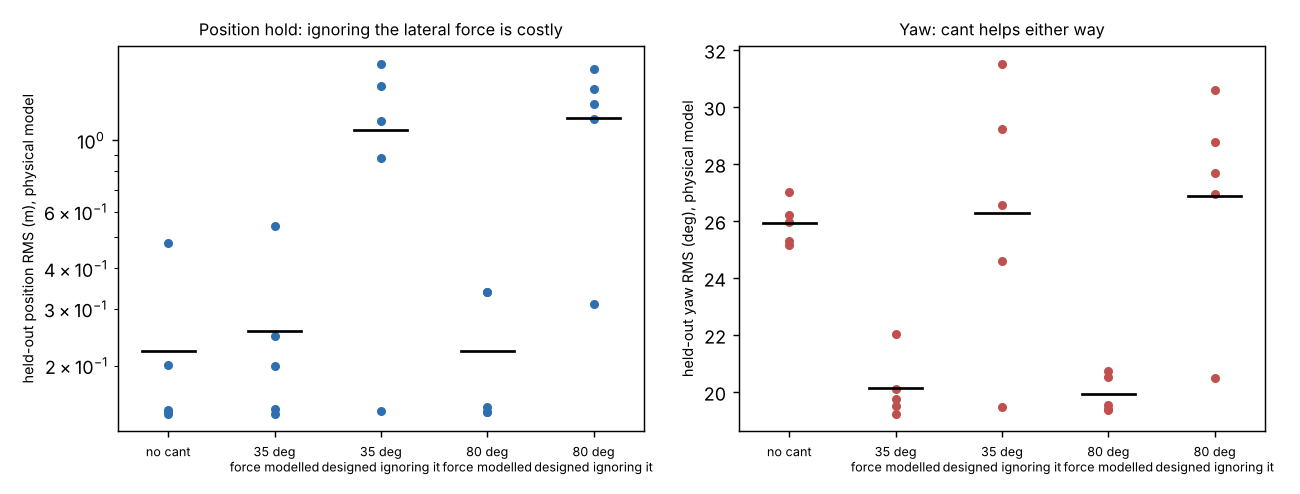
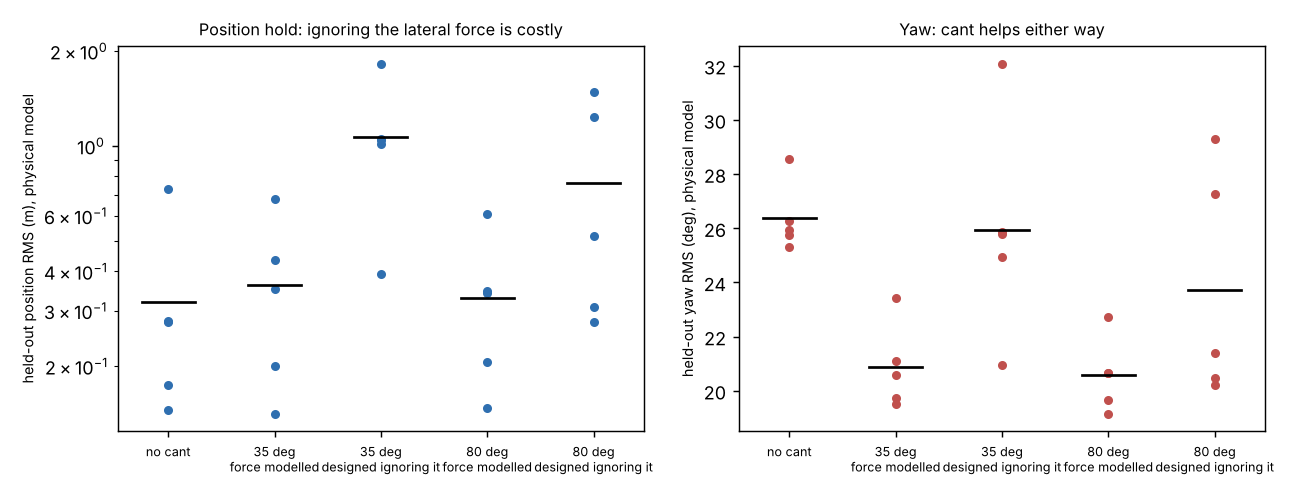
research/codesign-aero-cant-poshold: rerun after fix, README correction, post
Prompt-Version: research/0
Claude-Session: https://claude.ai/code/session_01AcxTtKjK193godXW6TNzb6

diff --git a/research/codesign-aero-cant-poshold/README.md b/research/codesign-aero-cant-poshold/README.md
@@ -6,18 +6,19 @@ Follow-up to `codesign-aero-cant-bound`, and five sibling READMEs that all defer
 
 ![Left: held-out position error of each co-designed vehicle; right: yaw error. One dot per seed.](experiments/poshold.png)
 
-**Headline (simulated; numbers from `experiments/results.txt`).** Joint CMA-ES over arm length, propeller diameter, cant, six attitude gains and three position gains (3200 evaluations, 5 seeds), scored on 64 held-out wide-plant episodes (start up to 0.5 m off the origin in a gust, hold position while yaw steps ±30°):
-- **The lateral force of a canted rotor is large enough to break a design that ignores it.** A closed form, F = τ·tan α / r (body force per unit roll/pitch torque, checked against an explicit four-rotor allocation in the tests), is added to the physical model. Designs tuned with the force switched off and then scored with it on have a mean position error of 1.08 m (cant ≤ 35°) and 1.17 m (≤ 80°), against 0.25 m and 0.22 m when the force is in the optimisation loop; worse in 5 of 5 paired seeds at both bounds.
-- **The force costs position accuracy.** Re-scoring the force-aware designs with the force switched off improves them (J 3.33 to 2.61 at the 35° bound, 3.04 to 2.83 at 80°): the force is a disturbance the controller has to work around, not free authority. The sign comes from the layout: with this arm and spin assignment a positive roll torque pushes the vehicle the way a roll tilt would not (an unhelpful, non-minimum-phase-like axis) while pitch is the helpful axis.
-- **Cant still buys yaw, not position.** Against no cant, paired by seed and scored with the physical model, yaw RMS falls 5.8° (bound 35°) and 6.0° (bound 80°), better in 5 of 5 seeds each, and position RMS is unchanged within noise (+0.03 m and 0.00 m). The combined score J = √((pos/0.1 m)² + (yaw/10°)²) improves by 0.18 and 0.48, better in 3 and 4 of 5 seeds: weak. Three seeds at the 35° bound and two at 80° land on the same ~2.42 optimum (about 0.145 m, 19.5°), against 2.90 for the best no-cant seed, but the others stop in worse local optima (one seed per cell is above 5): the optimiser budget, not the physics, limits the seed-to-seed spread.
+**Correction (2026-11-10).** `rollout_pos` multiplied a (N,1) drag coefficient into a (N,E,2) array. When the number of designs equals the number of episodes (CMA-ES training: population 16, 16 episodes) NumPy broadcast it without error over the wrong axis, so each training rollout used another design's drag coefficient. Held-out scoring (one design, 64 episodes) was unaffected, but the optimiser was misled. Fixed, a regression test added (it fails on the old code), and `run.py` and `run_restart.py` rerun. The numbers below are the rerun; the earlier ones (J 3.33/2.61 etc., restart J 3.73 to 2.99) are superseded. The qualitative findings hold; two claims change and are marked.
 
-## Restart check: how much of the seed noise was the optimiser? (2026-11-09)
-`experiments/run_restart.py` repeats the 3200-evaluation CMA-ES run with 8 seeds (not 5), then restarts it from each seed's best point (sigma 0.1, a further 3200 evaluations), physical model only, same 64 held-out episodes (`results_restart.txt`, simulated).
-- **Yaw is robust:** cant cuts yaw RMS by 5.5° (35° bound) and 5.2° (80°) before restart, 6.0° and 5.2° after, better in 8 of 8 paired seeds in every case.
-- **Position stays flat:** +0.06 m and +0.11 m before restart, -0.03 m and +0.10 m after; better in only 2 to 5 of 8 seeds.
-- **Restart helps the 35° bound most:** mean J 3.73 to 2.99 (no cant: 3.61 to 3.58), and the paired J gain over no cant goes from +0.12 (4 of 8 better) to -0.59 (6 of 8 better). Five of 8 seeds now sit at or near the 2.4 optimum. This supports the earlier weak J result, with the caveat that the gain comes as much from the no-cant arm failing to improve (its restart moves some seeds worse on held-out episodes, i.e. overfit to the 16 training episodes) as from cant improving.
-- **The 80° bound does not recover:** mean J 4.18 to 4.05, worse than no cant in 4 of 8 seeds; three seeds stay above 4. A wider cant range is harder to search in 12 dimensions at this budget; it is not shown to be a worse design.
-- Limit: 8 seeds, no significance test, restart selected on 16 training episodes. This does not address the model limits listed above.
+**Headline (simulated; numbers from `experiments/results.txt`).** Joint CMA-ES over arm length, propeller diameter, cant, six attitude gains and three position gains (3200 evaluations, 5 seeds), scored on 64 held-out wide-plant episodes (start up to 0.5 m off the origin in a gust, hold position while yaw steps ±30°):
+- **The lateral force of a canted rotor is large enough to break a design that ignores it.** F = τ·tan α / r (checked against an explicit four-rotor allocation in the tests). Designs tuned with the force switched off and scored with it on have a mean position error of 1.07 m (cant ≤ 35°) and 0.76 m (≤ 80°), against 0.36 m and 0.33 m when the force is in the loop; J worse by 6.7 and 4.1, worse in 5 of 5 and 4 of 5 seeds.
+- **The force costs position accuracy.** Re-scoring force-aware designs with the force switched off improves them (J 4.25 to 3.04 at 35°, 3.95 to 3.14 at 80°).
+- **Cant buys yaw, not position.** Against no cant, paired by seed, yaw RMS falls 5.5° (35°) and 5.8° (80°), better in 5 of 5 seeds each; position RMS is not better (+0.04 m, +0.01 m). J improves by only 0.04 and 0.34, better in 3 of 5 seeds each: not distinguishable from noise at this budget. (Changed: the earlier run showed J gains of 0.18 and 0.48.)
+
+## Restart check: how much of the seed noise was the optimiser? (rerun 2026-11-10)
+`experiments/run_restart.py` repeats the 3200-evaluation CMA-ES run with 8 seeds, then restarts from each seed's best point (sigma 0.1, 3200 more evaluations), physical model, same 64 held-out episodes (`results_restart.txt`, simulated).
+- **Yaw is robust:** cant cuts yaw RMS by 5.1° (35°) and 6.1° (80°) before restart, 6.0° and 6.4° after, better in 8 of 8 seeds every time.
+- **Position stays flat:** +0.08 m and -0.05 m before restart, -0.04 m and -0.09 m after; better in only 3 to 4 of 8 seeds.
+- **After restart cant lowers J at both bounds:** mean J 4.36 (no cant), 3.58 (35°), 3.11 (80°); paired gain -0.78 (4 of 8 seeds better) and -1.25 (6 of 8). (Changed: the earlier run found the 80° bound did not recover and was worse than no cant in 4 of 8 seeds; with the bug fixed it is the better arm.) Seed spread is large (one no-cant seed stays at J 7.8), so the 35° gain rests on a few seeds.
+- Limit: 8 seeds, no significance test, restart selected on 16 training episodes (the overfitting explanation for the no-cant arm is untested; a 64-episode training set is a next step). Model limits above are unaffected.
 
 ## Method
 `src/codesign_aero_cant_poshold/aero.py`: the earlier model (sizing closure, attitude dynamics, gust, wide plant randomisation) plus `rollout_pos`: world position and velocity, perfect altitude hold (vertical force balances weight; the small vertical part of the lateral force is neglected), wind drag force 0.5 ρ A v|v| from the same gust that drives the torque, and the body lateral force from the *actual* (lagged, saturated) roll/pitch torque. An outer PID on noisy position (σ 0.02 m) and velocity (σ 0.05 m/s) turns the position error into roll/pitch references (small-angle, rotated by measured yaw, clipped at 20°); an inner PID tracks them. `couple=False` switches only the lateral force off. `rotor_layout` is the explicit four-rotor allocation used by the tests to verify the closed form and the yaw authority of `size`. Experiment (`experiments/run.py`): bound ∈ {0°, 35°, 80°} × (force in or out of the design loop) × 5 seeds; each trained design is scored on held-out episodes with the force both on and off. Same cost cap ($300) and clearance rule as the parents. No LLM is used.
@@ -26,7 +27,7 @@ Follow-up to `codesign-aero-cant-bound`, and five sibling READMEs that all defer
 ```bash
 cd research/codesign-aero-cant-poshold
 PY=$(python3 ../../platform/ci/pyenv.py pytest numpy cma matplotlib)
-"$PY" -m pytest -q tests          # 17 tests
+"$PY" -m pytest -q tests          # 18 tests
 "$PY" experiments/run.py          # a few minutes on 4 cores; results.txt, results.json
 "$PY" experiments/figure.py       # experiments/poshold.png
 ```

diff --git a/docs/posts/2026-11-10-a-broadcast-bug-in-a-quadrotor-optimiser.md b/docs/posts/2026-11-10-a-broadcast-bug-in-a-quadrotor-optimiser.md
@@ -1,0 +1,25 @@
+---
+title: "A silent NumPy broadcast bug misled a quadrotor optimiser, and which results survived"
+seo_title: "NumPy broadcasting bug when batch size equals episode count: a quadrotor co-design case"
+date: 2026-11-10
+tags: [numpy, bug, simulation, codesign, reproducibility]
+description: "A (N,1) array multiplied into (N,E,2) works silently when N equals E. How it hid in a canted-rotor quadrotor study, and what changed after the rerun."
+---
+
+In `research/codesign-aero-cant-poshold` a drag coefficient of shape (N,1)
+(one per design) was multiplied into a (N,E,2) wind array (design, episode,
+axis). NumPy aligns trailing axes, so this only raises an error when N and E
+differ. During CMA-ES training both were 16, so each rollout silently used
+another design's drag. Held-out scoring used one design and 64 episodes, so it
+errored nowhere and was correct; only the optimiser was misled.
+
+The fix is one index (`[:, None, None]`). A regression test compares a batched
+score with one-design-at-a-time scores for N equal to E; it fails on the old code.
+
+Reruns of both experiments: cant still buys yaw (about 5.5 to 6.4 degrees RMS,
+better in every seed) and still does not help position. The lateral-force
+penalty for ignoring it in design is the same size. Two claims moved: the
+combined score gain at the 35 degree bound shrank to 0.04 (3 of 5 seeds, noise),
+and after a restart the 80 degree bound is now the best arm rather than a
+failure. The README marks both. The lesson is a testing one: any batched
+simulator should be checked against its own single-item results at awkward sizes.
